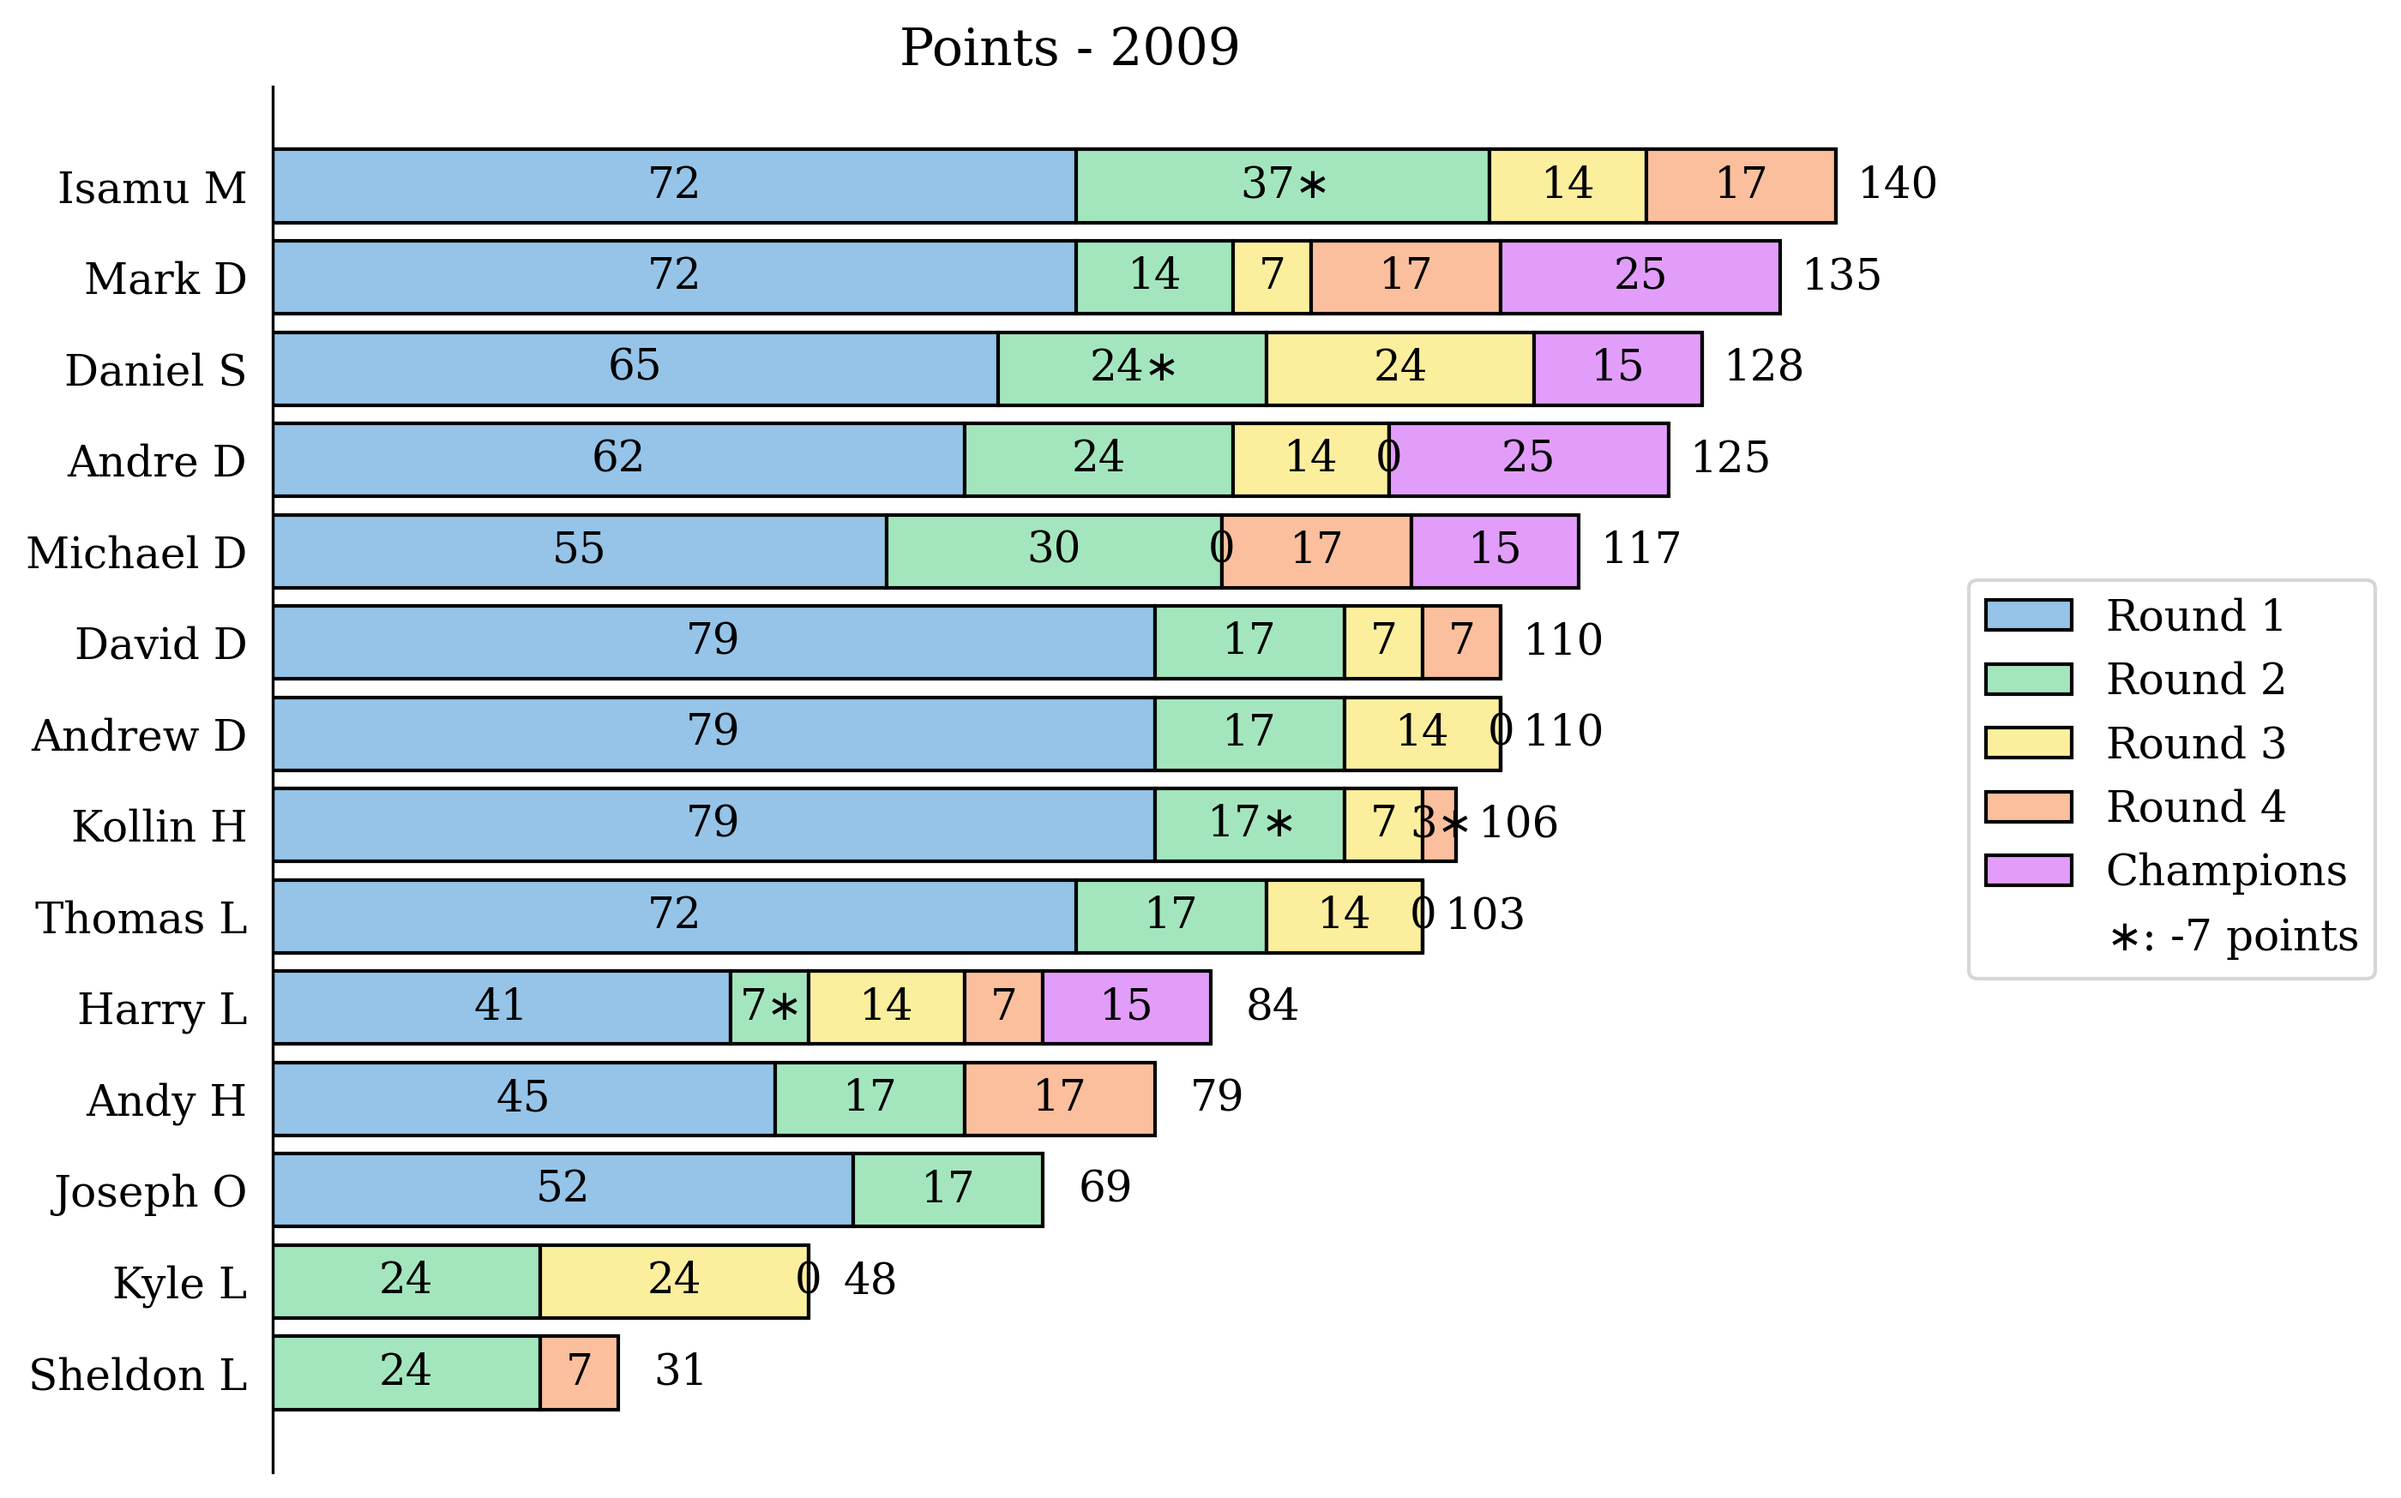
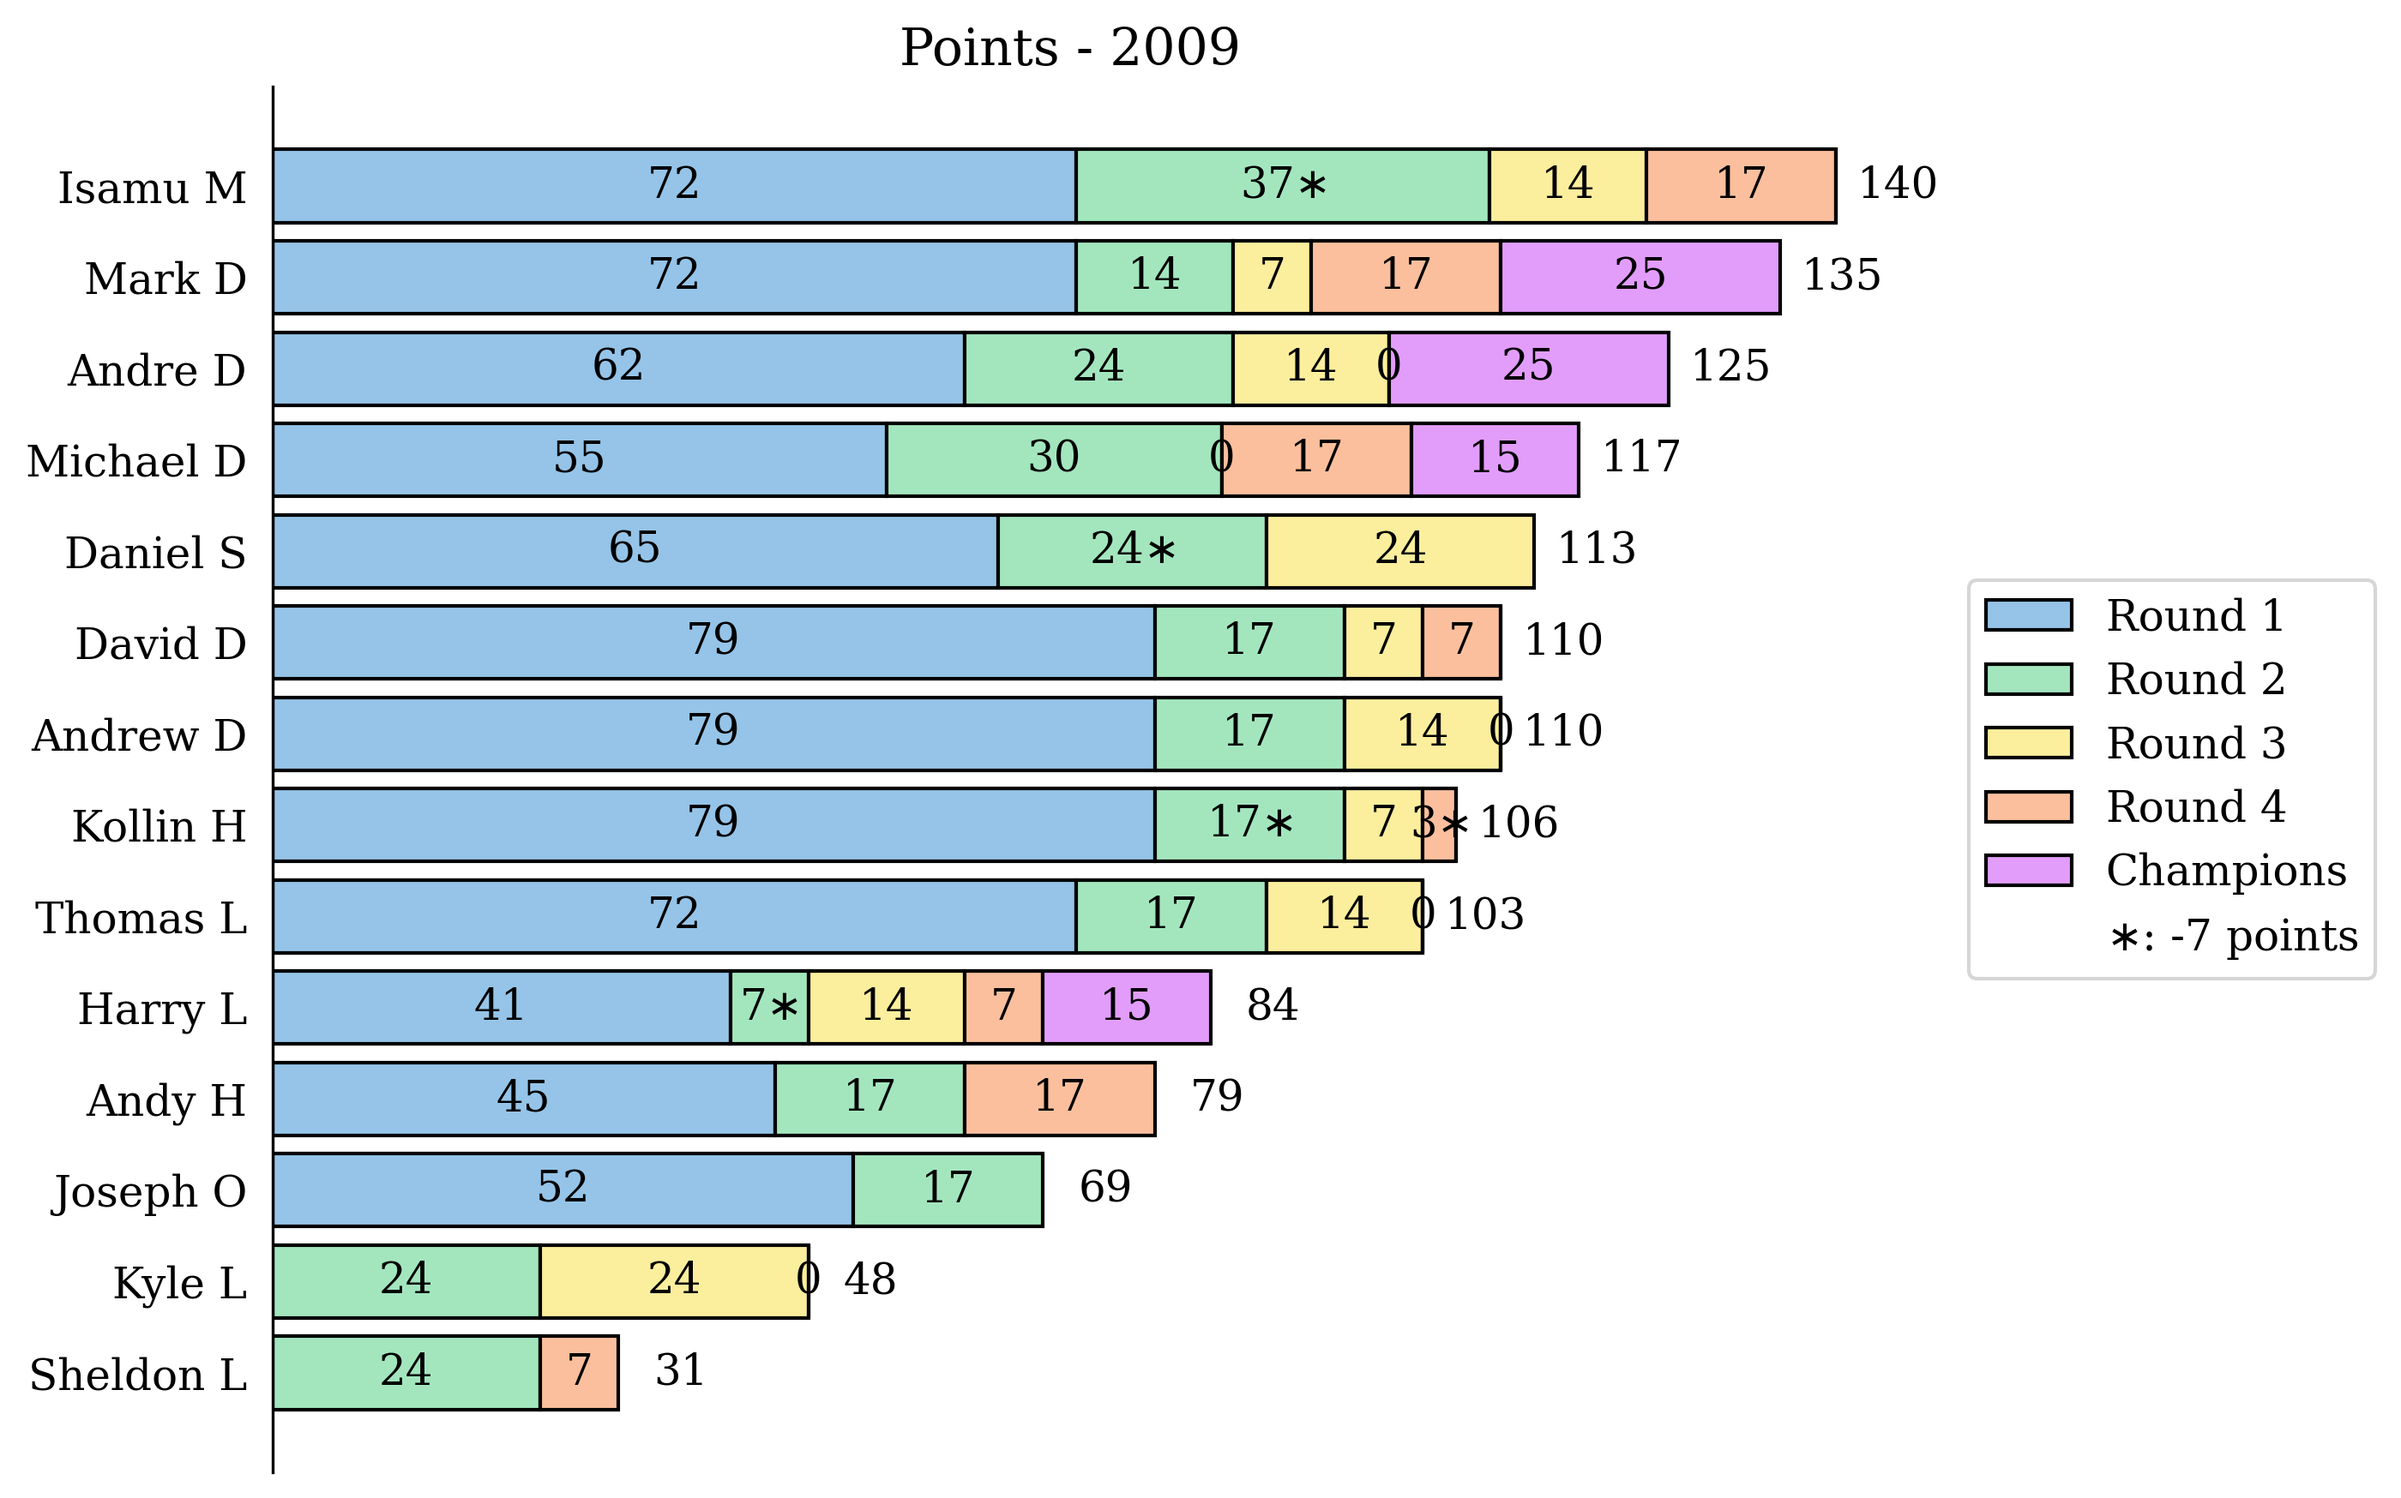
Fix pick, scores, and standings in 2009

diff --git a/tables/2009/round2.tex b/tables/2009/round2.tex
@@ -69,7 +69,7 @@
         \rowcolor{black} \mcn{29}{\color{white}\bf Conference Champions} \\
           Eastern & \mclg{PIT} & \mcl{WSH} & \mclg{WSH} & \mcl{BOS} & \mclg{BOS} & \mcl{NJD} & \mclg{BOS} & \mcl{BOS} & \mclg{WSH} & \mcl{} & \mclg{PIT} & \mcl{BOS} & \mclg{} & \mcl{BOS}\\
           Western & \mclg{CHI} & \mcl{SJS} & \mclg{SJS} & \mcl{DET} & \mclg{SJS} & \mcl{DET} & \mclg{STL} & \mcl{VAN} & \mclg{SJS} & \mcl{} & \mclg{VAN} & \mcl{DET} & \mclg{} & \mcl{SJS}\\
-          Stanley Cup & \mclg{PIT} & \mcl{SJS} & \mclg{SJS} & \mcl{BOS} & \mclg{BOS} & \mcl{NJD} & \mclg{BOS} & \mcl{VAN} & \mclg{SJS} & \mcl{} & \mclg{PIT} & \mcl{BOS} & \mclg{} & \mcl{SJS}
+          Stanley Cup & \mclg{PIT} & \mcl{SJS} & \mclg{SJS} & \mcl{DET} & \mclg{BOS} & \mcl{NJD} & \mclg{BOS} & \mcl{VAN} & \mclg{SJS} & \mcl{} & \mclg{PIT} & \mcl{BOS} & \mclg{} & \mcl{SJS}
     \end{tabular}
 \end{table}
 
@@ -79,7 +79,7 @@
         Correct team:	& $7$\\
         Correct series length (regardless of series winner):	& $10$\\
         Stanley Cup champion:	& 25\\
-        Stanley Cup finalist:	& 15\\
+        Stanley Cup runner-up:	& 15\\
     \end{tabular}
 
     \vspace{1cm}

diff --git a/tables/2009/round1.tex b/tables/2009/round1.tex
@@ -81,7 +81,7 @@
         \rowcolor{black} \mcn{25}{\color{white}\bf Conference Champions} \\
           Eastern & \mclg{PIT} & \mcl{WSH} & \mclg{WSH} & \mcl{BOS} & \mclg{BOS} & \mcl{NJD} & \mclg{BOS} & \mcl{BOS} & \mclg{WSH} & \mcl{PIT} & \mclg{BOS} & \mcl{BOS}\\
           Western & \mclg{CHI} & \mcl{SJS} & \mclg{SJS} & \mcl{DET} & \mclg{SJS} & \mcl{DET} & \mclg{STL} & \mcl{VAN} & \mclg{SJS} & \mcl{VAN} & \mclg{DET} & \mcl{SJS}\\
-          Stanley Cup & \mclg{PIT} & \mcl{SJS} & \mclg{SJS} & \mcl{BOS} & \mclg{BOS} & \mcl{NJD} & \mclg{BOS} & \mcl{VAN} & \mclg{SJS} & \mcl{PIT} & \mclg{BOS} & \mcl{SJS}
+          Stanley Cup & \mclg{PIT} & \mcl{SJS} & \mclg{SJS} & \mcl{DET} & \mclg{BOS} & \mcl{NJD} & \mclg{BOS} & \mcl{VAN} & \mclg{SJS} & \mcl{PIT} & \mclg{BOS} & \mcl{SJS}
     \end{tabular}
 \end{table}
 
@@ -91,7 +91,7 @@
         Correct team:	& $7$\\
         Correct series length (regardless of series winner):	& $10$\\
         Stanley Cup champion:	& 25\\
-        Stanley Cup finalist:	& 15\\
+        Stanley Cup runner-up:	& 15\\
     \end{tabular}
 
     \vspace{1cm}

diff --git a/tables/2009/round3.tex b/tables/2009/round3.tex
@@ -63,7 +63,7 @@
         \rowcolor{black} \mcn{23}{\color{white}\bf Conference Champions} \\
           Eastern & \mclg{PIT} & \mcl{WSH} & \mclg{BOS} & \mcl{BOS} & \mclg{NJD} & \mcl{BOS} & \mclg{WSH} & \mcl{} & \mclg{PIT} & \mcl{BOS} & \mclg{BOS}\\
           Western & \mclg{CHI} & \mcl{SJS} & \mclg{DET} & \mcl{SJS} & \mclg{DET} & \mcl{STL} & \mclg{SJS} & \mcl{} & \mclg{VAN} & \mcl{DET} & \mclg{SJS}\\
-          Stanley Cup & \mclg{PIT} & \mcl{SJS} & \mclg{BOS} & \mcl{BOS} & \mclg{NJD} & \mcl{BOS} & \mclg{SJS} & \mcl{} & \mclg{PIT} & \mcl{BOS} & \mclg{SJS}
+          Stanley Cup & \mclg{PIT} & \mcl{SJS} & \mclg{DET} & \mcl{BOS} & \mclg{NJD} & \mcl{BOS} & \mclg{SJS} & \mcl{} & \mclg{PIT} & \mcl{BOS} & \mclg{SJS}
     \end{tabular}
 \end{table}
 
@@ -73,7 +73,7 @@
         Correct team:	& $7$\\
         Correct series length (regardless of series winner):	& $10$\\
         Stanley Cup champion:	& 25\\
-        Stanley Cup finalist:	& 15\\
+        Stanley Cup runner-up:	& 15\\
     \end{tabular}
 
     \vspace{1cm}

diff --git a/data/archive/import_2009.py b/data/archive/import_2009.py
@@ -25,7 +25,7 @@ def import_2009_data():
             ['Andre','D','Pittsburgh Penguins','Chicago Blackhawks','Pittsburgh Penguins'],
             ['Andrew','D','Washington Capitals','San Jose Sharks','San Jose Sharks'],
             ['Andy','H','Washington Capitals','San Jose Sharks','San Jose Sharks'],
-            ['Daniel','S','Boston Bruins','Detroit Red Wings','Boston Bruins'],
+            ['Daniel','S','Boston Bruins','Detroit Red Wings','Detroit Red Wings'],
             ['David','D','Boston Bruins','San Jose Sharks','Boston Bruins'],
             ['Harry','L','New Jersey Devils','Detroit Red Wings','New Jersey Devils'],
             ['Isamu','M','Boston Bruins','St Louis Blues','Boston Bruins'],

diff --git a/scripts/latex_table.py b/scripts/latex_table.py
@@ -333,6 +333,11 @@ def create_points_description(year):
         Stanley Cup champion (in addition to finalist):	& {system['stanley_cup_winner']}\\\\
         Stanley Cup finalist:	& {system['stanley_cup_finalist']}\\\\
 '''
+    elif year == 2009:
+        descriptor += f'''
+        Stanley Cup champion:	& {system['stanley_cup_winner']}\\\\
+        Stanley Cup runner-up:	& {system['stanley_cup_runnerup']}\\\\
+'''
     elif year > 2009:
         descriptor += f'''
         Stanley Cup champion:	& {system['stanley_cup_winner']}\\\\

diff --git a/tables/2009/round4.tex b/tables/2009/round4.tex
@@ -68,7 +68,7 @@
         Correct team:	& $7$\\
         Correct series length (regardless of series winner):	& $10$\\
         Stanley Cup champion:	& 25\\
-        Stanley Cup finalist:	& 15\\
+        Stanley Cup runner-up:	& 15\\
     \end{tabular}
 
     \vspace{1cm}
